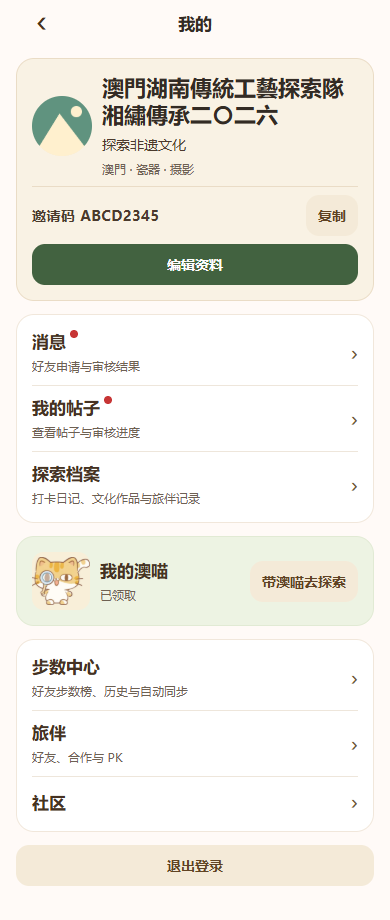
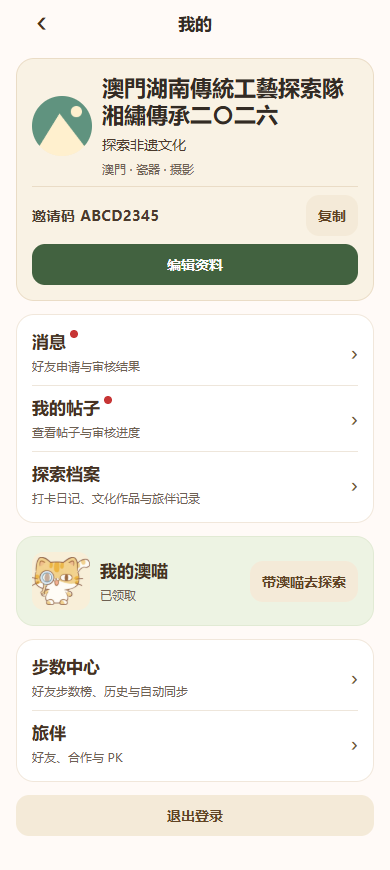
fix: separate My shortcuts and clarify profile submission failures

Changed region(s): [[0.0308, 0.0, 0.9538, 0.9621], [0.8923, 0.4034, 0.9231, 0.4655], [0.0923, 0.0, 0.1231, 0.031]]

diff --git a/scripts/validate-profile-browser.js b/scripts/validate-profile-browser.js
@@ -38,8 +38,17 @@ async (page) => {
       return canvas.toDataURL('image/png')
     }
     const png = testAvatar('#60937f', '#fff0ce'), proposedPng = testAvatar('#745176', '#fbd5a4')
+    const nativeInputClick = HTMLInputElement.prototype.click
+    HTMLInputElement.prototype.click = function () {
+      if (this.type !== 'file') return nativeInputClick.call(this)
+      const fixtureFile = Uint8Array.from(atob(proposedPng.split(',')[1]), char => char.charCodeAt(0))
+      const transfer = new DataTransfer()
+      transfer.items.add(new File([fixtureFile], 'test-avatar.png', { type: 'image/png' }))
+      this.files = transfer.files
+      queueMicrotask(() => this.dispatchEvent(new Event('change', { bubbles: true })))
+    }
     const candidate = { ...rejected, revisionId: 'admin-case', nickname: '申请审核昵称', status: 'pending', hasAvatar: true, reason: '', createdAt: Date.now() }
-    window.__profileFixture = { name, read: false, pending: null, failAvatar: true, lost: true, writes: [],
+    window.__profileFixture = { name, read: false, pending: null, failAvatar: true, lost: true, writes: [], uploads: [],
       adminDecision: '', failQueue: false, failSelected: true, adminWrites: 0 }
     window.__mockCloud = async ({ data }) => {
       const { action, token, payload = {} } = data, fixture = window.__profileFixture
@@ -67,18 +76,27 @@ async (page) => {
         case 'profileAvatar':
           if (fixture.failAvatar) { fixture.failAvatar = false; return fail('PHOTO_UNAVAILABLE') }
           return ok({ src: png })
+        case 'profileStageAvatar':
+          if (typeof payload.base64 !== 'string' || !payload.base64.startsWith('iVBOR')) return fail('INVALID_IMAGE')
+          fixture.uploads.push(payload.requestId)
+          if (fixture.uploads.length === 1) return fail('SERVICE_UNAVAILABLE')
+          return ok({ uploadId: 'fixture-avatar' })
         case 'profileSubmit':
+          if (payload.avatarUploadId !== 'fixture-avatar') return fail('INVALID_REQUEST')
           fixture.writes.push(payload.requestId)
-          fixture.pending = { ...payload, revisionId: 'pending-revision', hasAvatar: false, status: 'pending', reason: '' }
+          fixture.pending = { ...payload, revisionId: 'pending-revision', hasAvatar: true, status: 'pending', reason: '' }
           if (fixture.lost) { fixture.lost = false; throw Error('RESPONSE_LOST') }
           return ok({ revisionId: 'pending-revision', status: 'pending' })
-        case 'profileRevision': return payload.revisionId === 'older' && token === 'local-profile' ? ok(rejected) : fail('NOT_FOUND')
+        case 'profileRevision':
+          if (token !== 'local-profile') return fail('NOT_FOUND')
+          if (payload.avatar && payload.revisionId === 'pending-revision') return ok({ src: proposedPng })
+          return payload.revisionId === 'older' ? ok(rejected) : fail('NOT_FOUND')
         case 'notificationsSummary': return ok({ unread: fixture.read ? 0 : 1 })
         case 'notificationsList': return ok({ items: [{ ...item, read: fixture.read }], next: '' })
         case 'notificationDetail': return ok({ ...item, read: fixture.read, reason: rejected.reason, target: null, profileTarget: { revisionId: 'older' } })
         case 'notificationRead': fixture.read = true; return ok({})
         case 'communityReviewNotices': return ok({ unread: 1 })
-        case 'communityFeed': return ok({ items: [post], next: '' })
+        case 'communityFeed': return ok({ items: payload.tab === 'mine' ? [{ ...post, title: '我的测试帖子', owner: true }] : [post], next: '' })
         case 'communityPost': return ok(post)
         case 'communityComments': return ok({ items: [{ id: 'comment', parentId: '', author: name, authorCode: code, authorAvatarVersion: avatarVersion, body: '测试评论', status: 'public' }], next: '', mine: [] })
         case 'communityRanking': return ok([rank])
@@ -129,15 +147,18 @@ async (page) => {
   await visible('编辑资料').click()
   await visible('提交新资料').waitFor()
   await page.locator('input').first().fill('申请测试昵称')
-  await visible('使用默认澳喵').click()
+  await visible('选择头像').click()
   await visible('提交审核').click()
-  await visible('未收到服务确认，请检查网络后重试。').waitFor()
+  await visible('头像上传未收到确认，草稿已保留。可重试，或使用默认澳喵后提交。').waitFor()
+  await visible('提交审核').click()
+  await visible('提交审核未收到确认，草稿已保留。可重试同一次提交。').waitFor()
   await visible('提交审核').click()
   await visible('资料已提交审核。').waitFor()
   await visible('审核期间继续展示当前公开资料。').waitFor()
   const name = await page.evaluate(() => window.__profileFixture.name)
   await visible(name).waitFor()
-  const writes = await page.evaluate(() => window.__profileFixture.writes)
+  const { writes, uploads } = await page.evaluate(() => window.__profileFixture)
+  if (uploads.length !== 2 || uploads[0] !== uploads[1]) throw Error('Avatar retry changed its staging request')
   if (writes.length !== 2 || writes[0] !== writes[1]) throw Error('Uncertain write was not replayed')
   await screenshot('pending')
   await back()
@@ -158,6 +179,11 @@ async (page) => {
   await back()
   await visible('步数中心').waitFor()
   if (await page.locator('.review-dot[aria-label="有未读消息"]').count()) throw Error('Read badge did not clear')
+  if (await visible('社区').count()) throw Error('My duplicates community entry')
+  await visible('我的帖子').click()
+  await visible('我的测试帖子').waitFor()
+  if (await visible('今日好友步数榜').count() || await visible('好友排行').count()) throw Error('Personal feed leaks community controls')
+  await back()
   await visible('探索档案').click()
   await page.waitForURL('**/packages/profile/my-checkins/my-checkins')
   await back()
@@ -171,7 +197,7 @@ async (page) => {
   await visible(name).waitFor()
   await approvedAvatar(page).waitFor()
   await back()
-  await visible('社区').click()
+  await go('/packages/community/community/community')
   await visible('测试帖子').click()
   await visible('测试评论').waitFor()
   await approvedAvatar(page.locator('.post-card')).waitFor()
@@ -179,6 +205,8 @@ async (page) => {
   await back()
   await visible('好友排行').click()
   await page.getByText('1. ' + name + '（我）', { exact: true }).waitFor()
+  await visible('查看好友步数榜').waitFor()
+  if (await visible('今日好友步数榜').count()) throw Error('Community duplicates the steps screen')
   await approvedAvatar(page).waitFor()
   await page.goto(adminOrigin + '/')
   await page.setViewportSize({ width: 1440, height: 1000 })
@@ -201,5 +229,5 @@ async (page) => {
   if (await page.evaluate(() => window.__profileFixture.adminWrites) !== 1) throw Error('Queue refresh repeated a review')
   await visible('退出登录').waitFor()
   if (uncaught.length > 0) throw Error(uncaught.join('; '))
-  return 'Verified 375/390/430 layout, avatar retry, pending and rejected history, notifications, current attribution, and Admin review and read retry'
+  return 'Verified avatar selection and retry, same-request submission, distinct My routes, 375/390/430 layout, and Admin review'
 }

diff --git a/app/uniCloud-alipay/cloudfunctions/fy-api/profile-service.js b/app/uniCloud-alipay/cloudfunctions/fy-api/profile-service.js
@@ -67,6 +67,20 @@ async function guardAccount(db, uid) {
   await active(db, uid)
 }
 
+async function profileStorage(operation) {
+  try {
+    return await operation()
+  } catch (error) {
+    const code = error?.code ?? error?.errCode
+    const message = String(error?.message ?? error?.errMsg ?? '')
+    if (['DATABASE_COLLECTION_NOT_EXIST', 'DATABASE_COLLECTION_NOT_FOUND'].includes(code) ||
+        /(?:collection|集合|数据表).{0,120}(?:not found|not exist|missing|不存在)|NamespaceNotFound/i.test(message)) {
+      fail('PROFILE_STORAGE_UNAVAILABLE')
+    }
+    throw error
+  }
+}
+
 function createProfileService({ repo, media, now = Date.now }) {
   const { ensureProfile } = createPartnershipService({ repo, now })
 
@@ -121,17 +135,17 @@ function createProfileService({ repo, media, now = Date.now }) {
       if (!['image/jpeg', 'image/png'].includes(image.mime) || image.bytes.length > 1024 * 1024) fail('INVALID_IMAGE')
       const digest = createHash('sha256').update(image.mime).update(image.bytes).digest('hex')
       const id = key('profile-upload', uid, p.requestId)
-      const existing = await repo.get(uploads, id)
+      const existing = await profileStorage(() => repo.get(uploads, id))
       if (existing) return replay(existing, digest)
       const stored = await media.store(image, uid)
-      const result = await repo.tx(async db => {
+      const result = await profileStorage(() => repo.tx(async db => {
         const raced = await db.get(uploads, id)
         if (raced) return raced
         await guardAccount(db, uid)
         const row = { _id: id, uid, requestId: p.requestId, digest, media: stored, expiresAt: now() + 24 * hour }
         await db.put(uploads, id, row)
         return row
-      })
+      }))
       // A thrown commit may already have persisted the file reference. Only discard a known loser.
       if (result.media.fileID !== stored.fileID) await media.discard(stored)
       return replay(result, digest)
@@ -144,7 +158,7 @@ function createProfileService({ repo, media, now = Date.now }) {
       const id = key('profile-revision', uid, p.requestId)
       const digest = key(values)
       const original = await loadProfile(user)
-      return repo.tx(async db => {
+      return profileStorage(() => repo.tx(async db => {
         const existing = await db.get(revisions, id)
         if (existing) {
           if (existing.digest !== digest) fail('REQUEST_CONFLICT')
@@ -188,7 +202,7 @@ function createProfileService({ repo, media, now = Date.now }) {
           ...profile, pendingRevisionId: id, latestProfileRevisionId: id, profileSubmittedAt: [...recent, at]
         })
         return { revisionId: id, status: 'pending' }
-      })
+      }))
     },
 
     async profileAvatar(_user, p) {

diff --git a/app/uniCloud-alipay/cloudfunctions/fy-api/index.js b/app/uniCloud-alipay/cloudfunctions/fy-api/index.js
@@ -32,6 +32,7 @@ const serviceActions = new Set(['saveDraft', 'previewDraft', 'publish', 'drafts'
   'invitePk', 'respondPk', 'readyPk', 'myPk', 'settlePk', 'forfeitPk', 'pkEggs', 'chooseEgg', 'cancelPk', 'assignment', 'assignmentQuiz', 'answerAssignment', 'completeAssignment', 'rejectAssignment'])
 const known=new Set(['FORBIDDEN','AUTH_REQUIRED','NOT_FOUND','CONFLICT','REQUEST_CONFLICT','OUTSIDE_RANGE','CLUE_LOCKED','CLUE_INCORRECT','MEDIA_MISMATCH','MEDIA_UPLOAD_FAILED','PHOTO_UNAVAILABLE','TEST_CONTENT_DISABLED','CONTENT_REVIEW_REQUIRED','CONFIG_REQUIRED','INVALID_IMAGE','RATE_LIMITED','LOGIN_FAILED','INVALID_PASSWORD','PASSWORD_INCORRECT','PASSWORD_UNCHANGED','USERNAME_TAKEN','CREDENTIALS_UNCHANGED','ACTIVITY_LOCKED','EXPIRED','NOT_PENDING','NOT_FRIENDS','NOT_READY','ASSIGNMENT_PENDING','TOO_EARLY','STALE_VERSION','COMMENT_REJECTED','DUPLICATE_COMMENT','COMMUNITY_MUTED','UPLOAD_NOT_AVAILABLE','UPLOAD_STAGING_UNAVAILABLE','ACCOUNT_DISABLED'])
 known.add('APPEARANCE_LOCKED')
+known.add('PROFILE_STORAGE_UNAVAILABLE')
 for (const code of ['WERUN_SESSION_FAILED', 'WERUN_ACCOUNT_MISMATCH', 'WERUN_DAY_CHANGED', 'WECHAT_LOGIN_CONFIG']) known.add(code)
 exports.main=async(event,context)=>{
   try {

diff --git a/docs/validation/profile-and-my-page.md b/docs/validation/profile-and-my-page.md
@@ -50,3 +50,10 @@
 - **iOS 和 Android**：选图、取消、权限拒绝、压缩和 1 MiB 边界、弱网失败重试、冷启动、最新审核头像和默认澳喵。
 - **两个微信账号加隔离第三账号**：切账号隐藏草稿和历史头像、续期沿用未确认请求、旧头像继续显示、审核通过后跨设备刷新。确认帖子、评论、路线与步数榜、好友及旅伴统一显示。
 - **治理与回归**：驳回原因、红点与已读、旧通知的准确修订、停用恢复及旧密钥读图，同时复查九图、侧栏退出、隐私指引、步数自动同步与公开双城终章标签。
+
+## iPhone 反馈复查
+
+- 旧版将上传和提交阶段的多种失败显示为同一条网络提示。新版本分别反馈头像上传、提交审核和服务配置错误，保留草稿及原重试标识。
+- 开发空间 `env-00jy72i6ol3c` 的 Schema 列表未显示资料暂存和修订表。只读探针可对两表执行普通和事务查询。真实写入及 Schema／索引状态仍待核对。原 iPhone 调试连接已断开，本次失败的写入接口及错误码待复验。
+- 「我的帖子」直达本人列表与审核记录。地图继续提供社区入口，社区排行榜提供步数榜链接。步数榜、历史、里程碑及同步设置集中在步数中心，社区原有自动同步仍在后台运行。
+- 桌面新增四项回归，Node 全量 208 项通过。HBuilderX 5.15 微信开发包、App Web 编译及 AppID／空间绑定校验通过。Edge 模拟复现选图、上传失败及相同标识重试、提交响应丢失及相同标识重试，也验证三个入口的页面区别和 375／390／430 像素布局。本轮云端操作仅为只读查询。
